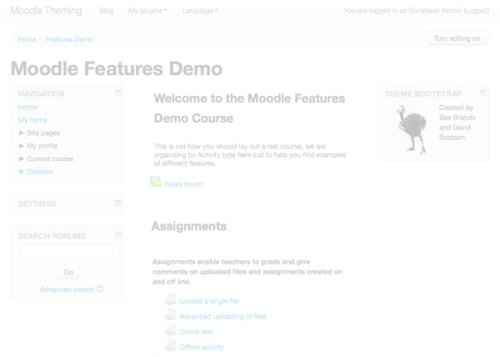
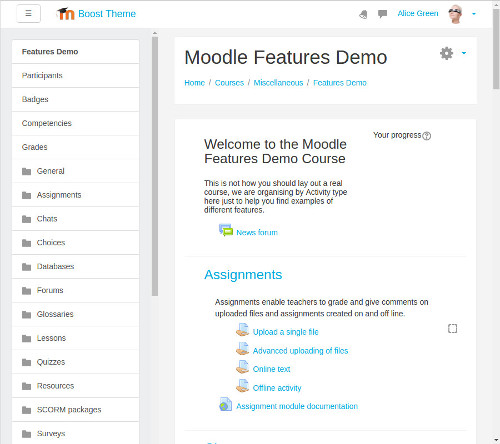
MDL-56015 theme_boost: Clean up pix folder
Add real screenshot of new theme and delete unused images and icons.

diff --git a/theme/boost/scss/moodle.scss b/theme/boost/scss/moodle.scss
@@ -1,7 +1,4 @@
 // Set image location.
-$iconSpritePath:          "[[pix:theme|glyphicons-halflings]]" !default;
-$iconWhiteSpritePath:     "[[pix:theme|glyphicons-halflings-white]]" !default;
-
 $breadcrumb-divider: "▶" !default;
 $breadcrumb-divider-rtl: "◀" !default;
 
